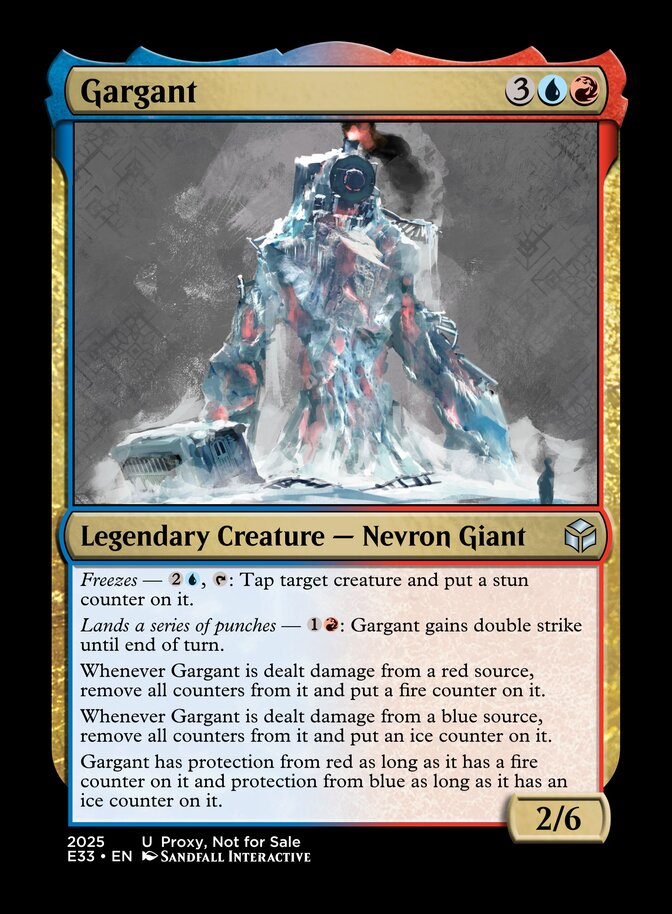
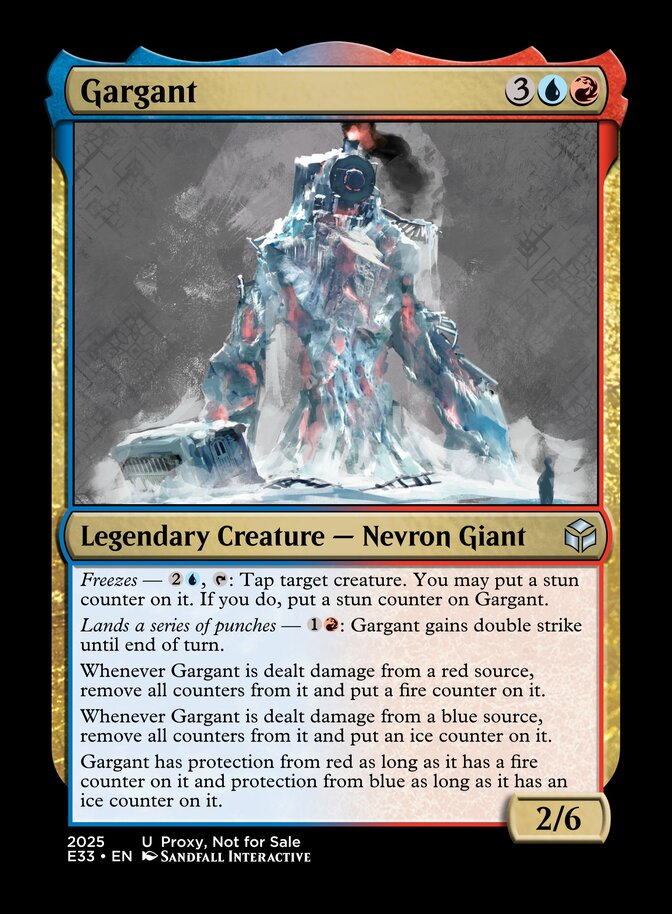
Gargant: Make stun portion of freeze ability optional and if chosen, will mutually stun ala. Sanctuary Wall
Fixes #149

Changed region(s): [[0.5, 0.6127, 0.875, 0.674], [0.2812, 0.6433, 0.4688, 0.674]]

diff --git a/design/MULTICOLOR.md b/design/MULTICOLOR.md
@@ -1,6 +1,6 @@
 # Cards
 
-> Last generated: 6/7/2026 1:11:53 pm
+> Last generated: 6/7/2026 1:35:50 pm
 
 ## Aberration
 
@@ -1115,7 +1115,7 @@ Foretell {U}{B} (During your turn, you may pay {2} and exile this card from your
 ```
 3UR
 Legendary Creature - Nevron Giant
-Freezes — {2}{U}, {T}: Tap target creature and put a stun counter on it.
+Freezes — {2}{U}, {T}: Tap target creature. You may put a stun counter on it. If you do, put a stun counter on Gargant.
 Lands a series of punches — {1}{R}: Gargant gains double strike until end of turn.
 Whenever Gargant is dealt damage from a red source, remove all counters from it and put a fire counter on it.
 Whenever Gargant is dealt damage from a blue source, remove all counters from it and put an ice counter on it.
@@ -1131,6 +1131,7 @@ Gargant has protection from red as long as it has a fire counter on it and prote
  - In the game, Gargant is a boss in Frozen Hearts.
  - Rather than transcribe its abilities 1:1 like other Nevrons, I've gone for something different here and only tried to mechanically capture its "flip-flop" elemental immunity.
  - 21/01/2026: Added Giant sub-type.
+ - 6/7/2026: For power level reasons, made stun portion of freeze ability optional and if chosen, will mutually stun ala. Sanctuary Wall
 
 
 ### Rulings
